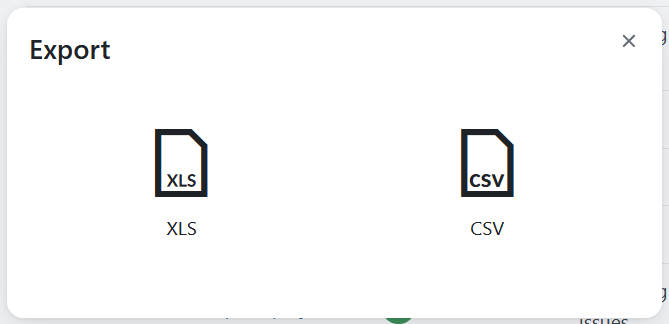
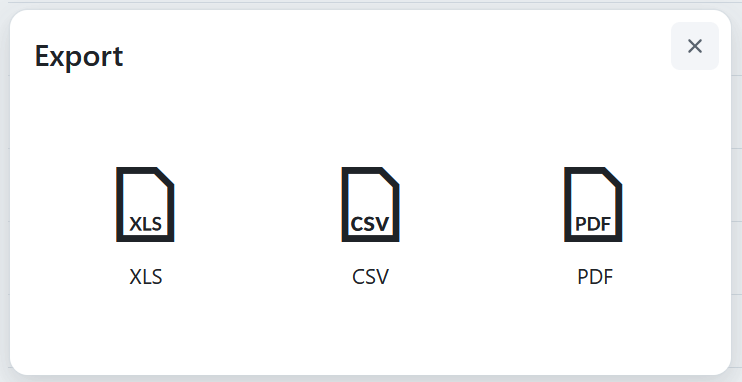
[#67016] PDF export of project list  https://community.openproject.org/work_packages/67016
[#67016] PDF export of project list

https://community.openproject.org/work_packages/67016

diff --git a/docs/user-guide/projects/project-lists/README.md b/docs/user-guide/projects/project-lists/README.md
@@ -18,10 +18,10 @@ Your projects can be available publicly or internally. OpenProject does not limi
 | [Select project lists](#select-project-lists)                | Get an overview of all your projects in the project lists.   |
 | [Filter project lists](#project-lists-filters)               | Adjust filters in the project lists.                         |
 | [Favorite project lists](#favorite-project-lists)            | Mark project lists as favorite.                              |
-| [Share project lists with individual users and groups (Enterprise add-on)](#share-project-lists-with-individual-users-and-groups-enterprise-add-on) | Share project lists with individual users and groups.                   |
+| [Share project lists with individual users and groups (Enterprise add-on)](#share-project-lists-with-individual-users-and-groups-enterprise-add-on) | Share project lists with individual users and groups.        |
 | [Share project lists with everyone](#share-with-everyone-at-openproject) | Share project lists with everyone within your OpenProject instance. |
-| [Export project list](#export-project-lists)                 | You can export the project list to XLS or CSV.               |
-| [Project overarching reports](#project-overarching-reports)  | How to create project overarching reports across multiple projects. |
+| [Export project list](#export-project-lists)                 | Export project lists as XLS, CSV or PDF.                     |
+| [Project overarching reports](#project-overarching-reports)  | Create project overarching reports across multiple projects. |
 
 ## Select project lists
 
@@ -252,13 +252,13 @@ If a project list has already been shared, you will see the list of users that h
 
 ## Export project lists
 
-You can export a project list by clicking on the three dots in the upper right hand corner and selecting > **Export**.
+You can export a project list by clicking on the three dots in the upper right hand corner and selecting **Export**.
 
 ![Export projects in OpenProject](export-projects.png)
 
 Next, you can select the format in which you want to export the project list.
 
-It can be exported as .xls or .csv.
+It can be exported as XLS, CSV or PDF file.
 
 ![Export project list formats](export-project-list-formats.png)
 